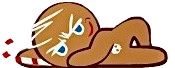
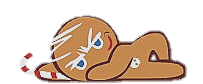
ajustes na tela inicial

diff --git a/docs/css/style_inicio.css b/docs/css/style_inicio.css
@@ -12,8 +12,8 @@ body{
     background-color: rgb(184, 55, 38);
     color: aliceblue;
     width: 100%;
-    padding: 10px 20px;
-    top: 0px
+    padding: 10px 0px;
+    margin-right: 20px;
 }
 
 a.link_topo:link, a.link_topo:visited{
@@ -21,8 +21,8 @@ a.link_topo:link, a.link_topo:visited{
     color: aliceblue;
     font-family:'Roboto Condensed', sans-serif;
     font-size: 175%;
-    padding-left: 1%;
-    padding-right: 1%;
+    padding-left: 2%;
+    padding-right: 2%;
     display: flex;
     align-items: center;
     
@@ -137,7 +137,6 @@ a.image_gift:hover,a.image_house:hover{
 
 footer{
     background-color: rgba(184, 55, 38, 1);
-    width: 110%;
     padding: 20px;
     text-align: center;
     color:aliceblue;

diff --git a/docs/index.html b/docs/index.html
@@ -18,11 +18,11 @@
             </div>
         </div>        
         <a class = "link_topo" href="sobre_jogo.html"> Sobre o Jogo </a>
-        <a class = "link_topo"href="bora_jogar.html" style="margin-right: 100px;"> Bora Jogar </a>  
+        <a class = "link_topo"href="bora_jogar.html"> Bora Jogar </a>  
     </div>
 
     <div class="image_ginger_inicio">
-        <img src="gingerman_inicio.png" width="819" height="337.5"/>
+        <img src="gingerman_inicio.png" width="760" height="320.5"/>
     </div>
     
     <div class="cards">
